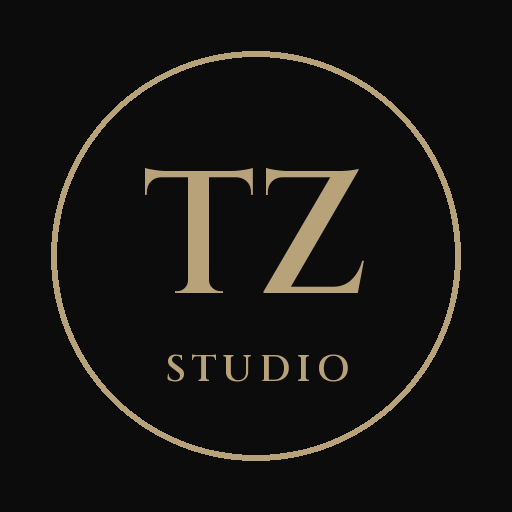
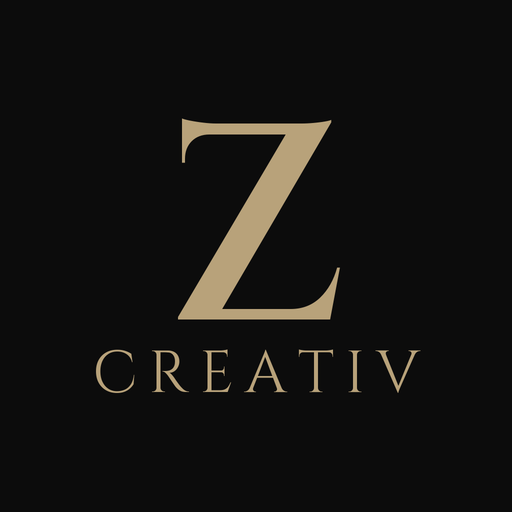
Rebrand to Z CREATIV (#3)
Claude-Session: https://claude.ai/code/session_013hcoddoB5WXDFZPLa72rMj

diff --git a/index.html b/index.html
@@ -3,15 +3,15 @@
 <head>
 <meta charset="utf-8">
 <meta name="viewport" content="width=device-width, initial-scale=1">
-<meta name="description" content="Thomas Zente: creative director, experience producer and cultural strategist. Venue concepts, immersive experiences and cultural programming. ATX, NYC, MIA.">
+<meta name="description" content="Z CREATIV, the creative direction and experience studio of Thomas Zente. Venue concepts, immersive experiences and cultural programming. ATX, NYC, MIA.">
 <meta name="theme-color" content="#0C0C0C">
-<title>Thomas Zente — Spaces, Sound, Culture</title>
+<title>Z CREATIV — Spaces, Sound, Culture</title>
 <link rel="manifest" href="manifest.webmanifest">
 <link rel="icon" href="img/app/icon-192.png" sizes="192x192">
 <link rel="apple-touch-icon" href="img/app/apple-touch-icon.png">
 <meta name="apple-mobile-web-app-capable" content="yes">
 <meta name="mobile-web-app-capable" content="yes">
-<meta name="apple-mobile-web-app-title" content="TZENTE">
+<meta name="apple-mobile-web-app-title" content="Z CREATIV">
 <meta name="apple-mobile-web-app-status-bar-style" content="black">
 <link rel="preconnect" href="https://fonts.googleapis.com">
 <link rel="preconnect" href="https://fonts.gstatic.com" crossorigin>
@@ -81,6 +81,8 @@ section{padding:108px 0;position:relative}
 .hero{padding:104px 0 0;border-bottom:1px solid var(--line)}
 .hero .wrap{display:flex;flex-direction:column;gap:26px}
 .hero h1{font-size:clamp(60px,10.5vw,150px);letter-spacing:-.01em}
+.hero h1.zword{font-family:var(--label);font-weight:400;font-size:clamp(40px,9.5vw,136px);letter-spacing:.12em;white-space:nowrap}
+.zm{color:var(--metal);font-weight:600}
 .hero .tag{font-family:var(--display);font-style:italic;font-size:clamp(25px,3.3vw,40px)}
 .hero .sub{font-size:19px;color:var(--text-dim);max-width:600px}
 .btns{display:flex;gap:14px;flex-wrap:wrap}
@@ -276,7 +278,7 @@ footer .wrap{display:flex;justify-content:space-between;gap:22px;flex-wrap:wrap}
 
 <nav class="nav" aria-label="Main">
   <div class="wrap">
-    <a class="brand" href="#top">THOMAS ZENTE</a>
+    <a class="brand" href="#top" aria-label="Z CREATIV"><span class="zm">Z</span> CREATIV</a>
     <ul id="navlinks">
       <li><a href="#proof">Proof</a></li>
       <li><a href="#arc">Approach</a></li>
@@ -292,8 +294,8 @@ footer .wrap{display:flex;justify-content:space-between;gap:22px;flex-wrap:wrap}
 <header class="hero cos" id="top">
   <canvas class="field" id="herofield" aria-hidden="true"></canvas>
   <div class="wrap">
-    <p class="eyebrow">Creative Director · Experience Producer · Cultural Strategist · Visionary</p>
-    <h1>Thomas Zente</h1>
+    <p class="eyebrow">Creative Direction &amp; Experience Studio · Led by Thomas Zente</p>
+    <h1 class="zword"><span class="zm">Z</span> CREATIV</h1>
     <p class="tag">Music. Spaces. Experiences. Culture.</p>
     <p class="sub">I take empty rooms and quiet nights and turn them into places people return to. Concept, space, programming, audience and execution, led as one vision.</p>
     <div class="btns">
@@ -335,7 +337,7 @@ footer .wrap{display:flex;justify-content:space-between;gap:22px;flex-wrap:wrap}
       <blockquote>The goal is not to create something people attend. It’s to create something they remember, return to and become part of.</blockquote>
       <p>For more than 15 years I’ve developed immersive events, cultural concepts and experiential environments. Great spaces are more than architecture, and great events are more than entertainment. Everything is energy in motion, and a room works when every part of it moves together.</p>
       <div class="idents">
-        <div><b>THOMAS ZENTE</b><span>Creative direction &amp; consulting</span></div>
+        <div><b>Z CREATIV</b><span>Creative direction &amp; experience studio</span></div>
         <div><b>COSMOTION</b><span>Platform &amp; label, since 2015</span></div>
         <div><b>ZENTI</b><span>Music Producer, Artist, DJ</span></div>
       </div>
@@ -523,7 +525,7 @@ footer .wrap{display:flex;justify-content:space-between;gap:22px;flex-wrap:wrap}
 
 <footer>
   <div class="wrap">
-    <span>© Thomas Zente · Creative Direction &amp; Experience Design</span>
+    <span>© Z CREATIV · Thomas Zente · Creative Direction &amp; Experience Design</span>
     <div class="socials">
       <a href="https://instagram.com/zentimusic">Instagram</a>
       <a href="https://soundcloud.com/zentimusic">SoundCloud</a>

diff --git a/README.md b/README.md
@@ -1,4 +1,4 @@
-# Thomas Zente — Creative Direction & Experience Production
+# Z CREATIV — Creative Direction & Experience Studio (Thomas Zente)
 
 Static site. No build step: Vercel serves `index.html` and `img/` as they are.
 
